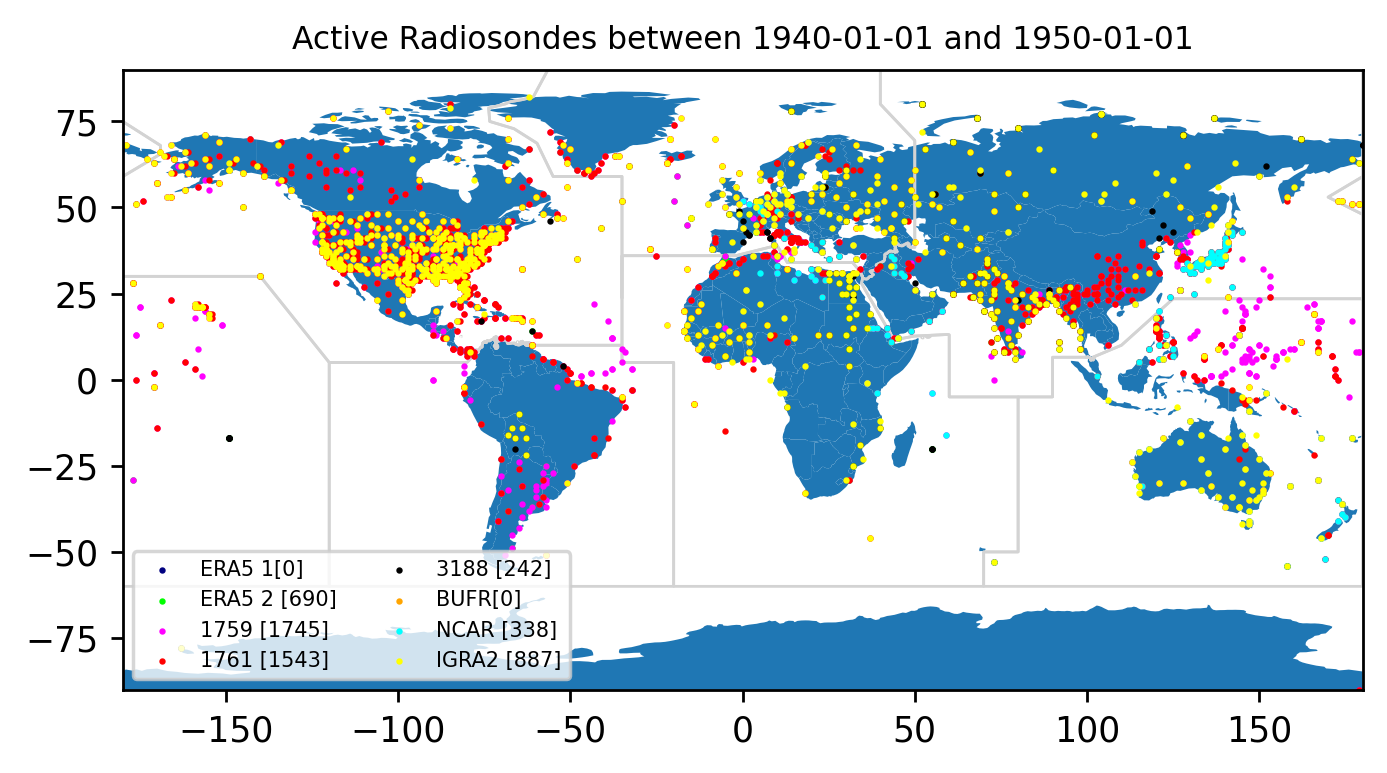
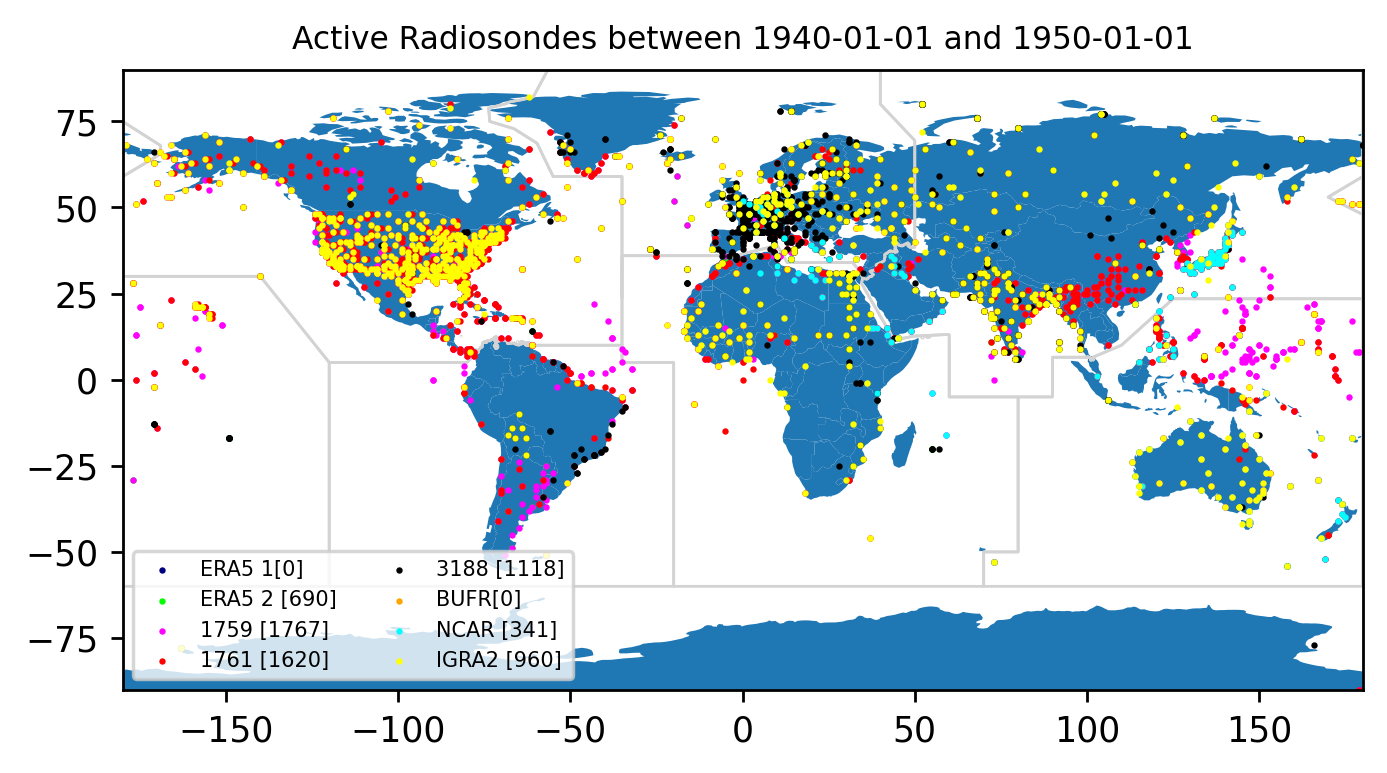
Added plots

diff --git a/CEUAS/dev_federico/world_plots/pretty_WMO_databases/pretty_WMOregions_databases.py b/CEUAS/dev_federico/world_plots/pretty_WMO_databases/pretty_WMOregions_databases.py
@@ -80,13 +80,15 @@ def make_plot_gpd(WMO, start_date = '', end_date = '' , databases = ''):
         LAT, LON = [], []
         for index, row in df.iterrows():
             start, end = np.datetime64(row['start']), np.datetime64(row['end'])
+            if start <= np.datetime64('1920-01-01'):
+                print(start)
             #print (start, end, start_date, end_date )
             try:
                 lat, lon = int(row['lat']) , int(row['lon'])
             except:
                 pass
 
-            if (start <= end_date) and (end >= start_date): # checking if the station is alive in the period
+            if (start <= end_date): # checking if the station is alive in the period
                 LAT.append(lat)
                 LON.append(lon)
 
